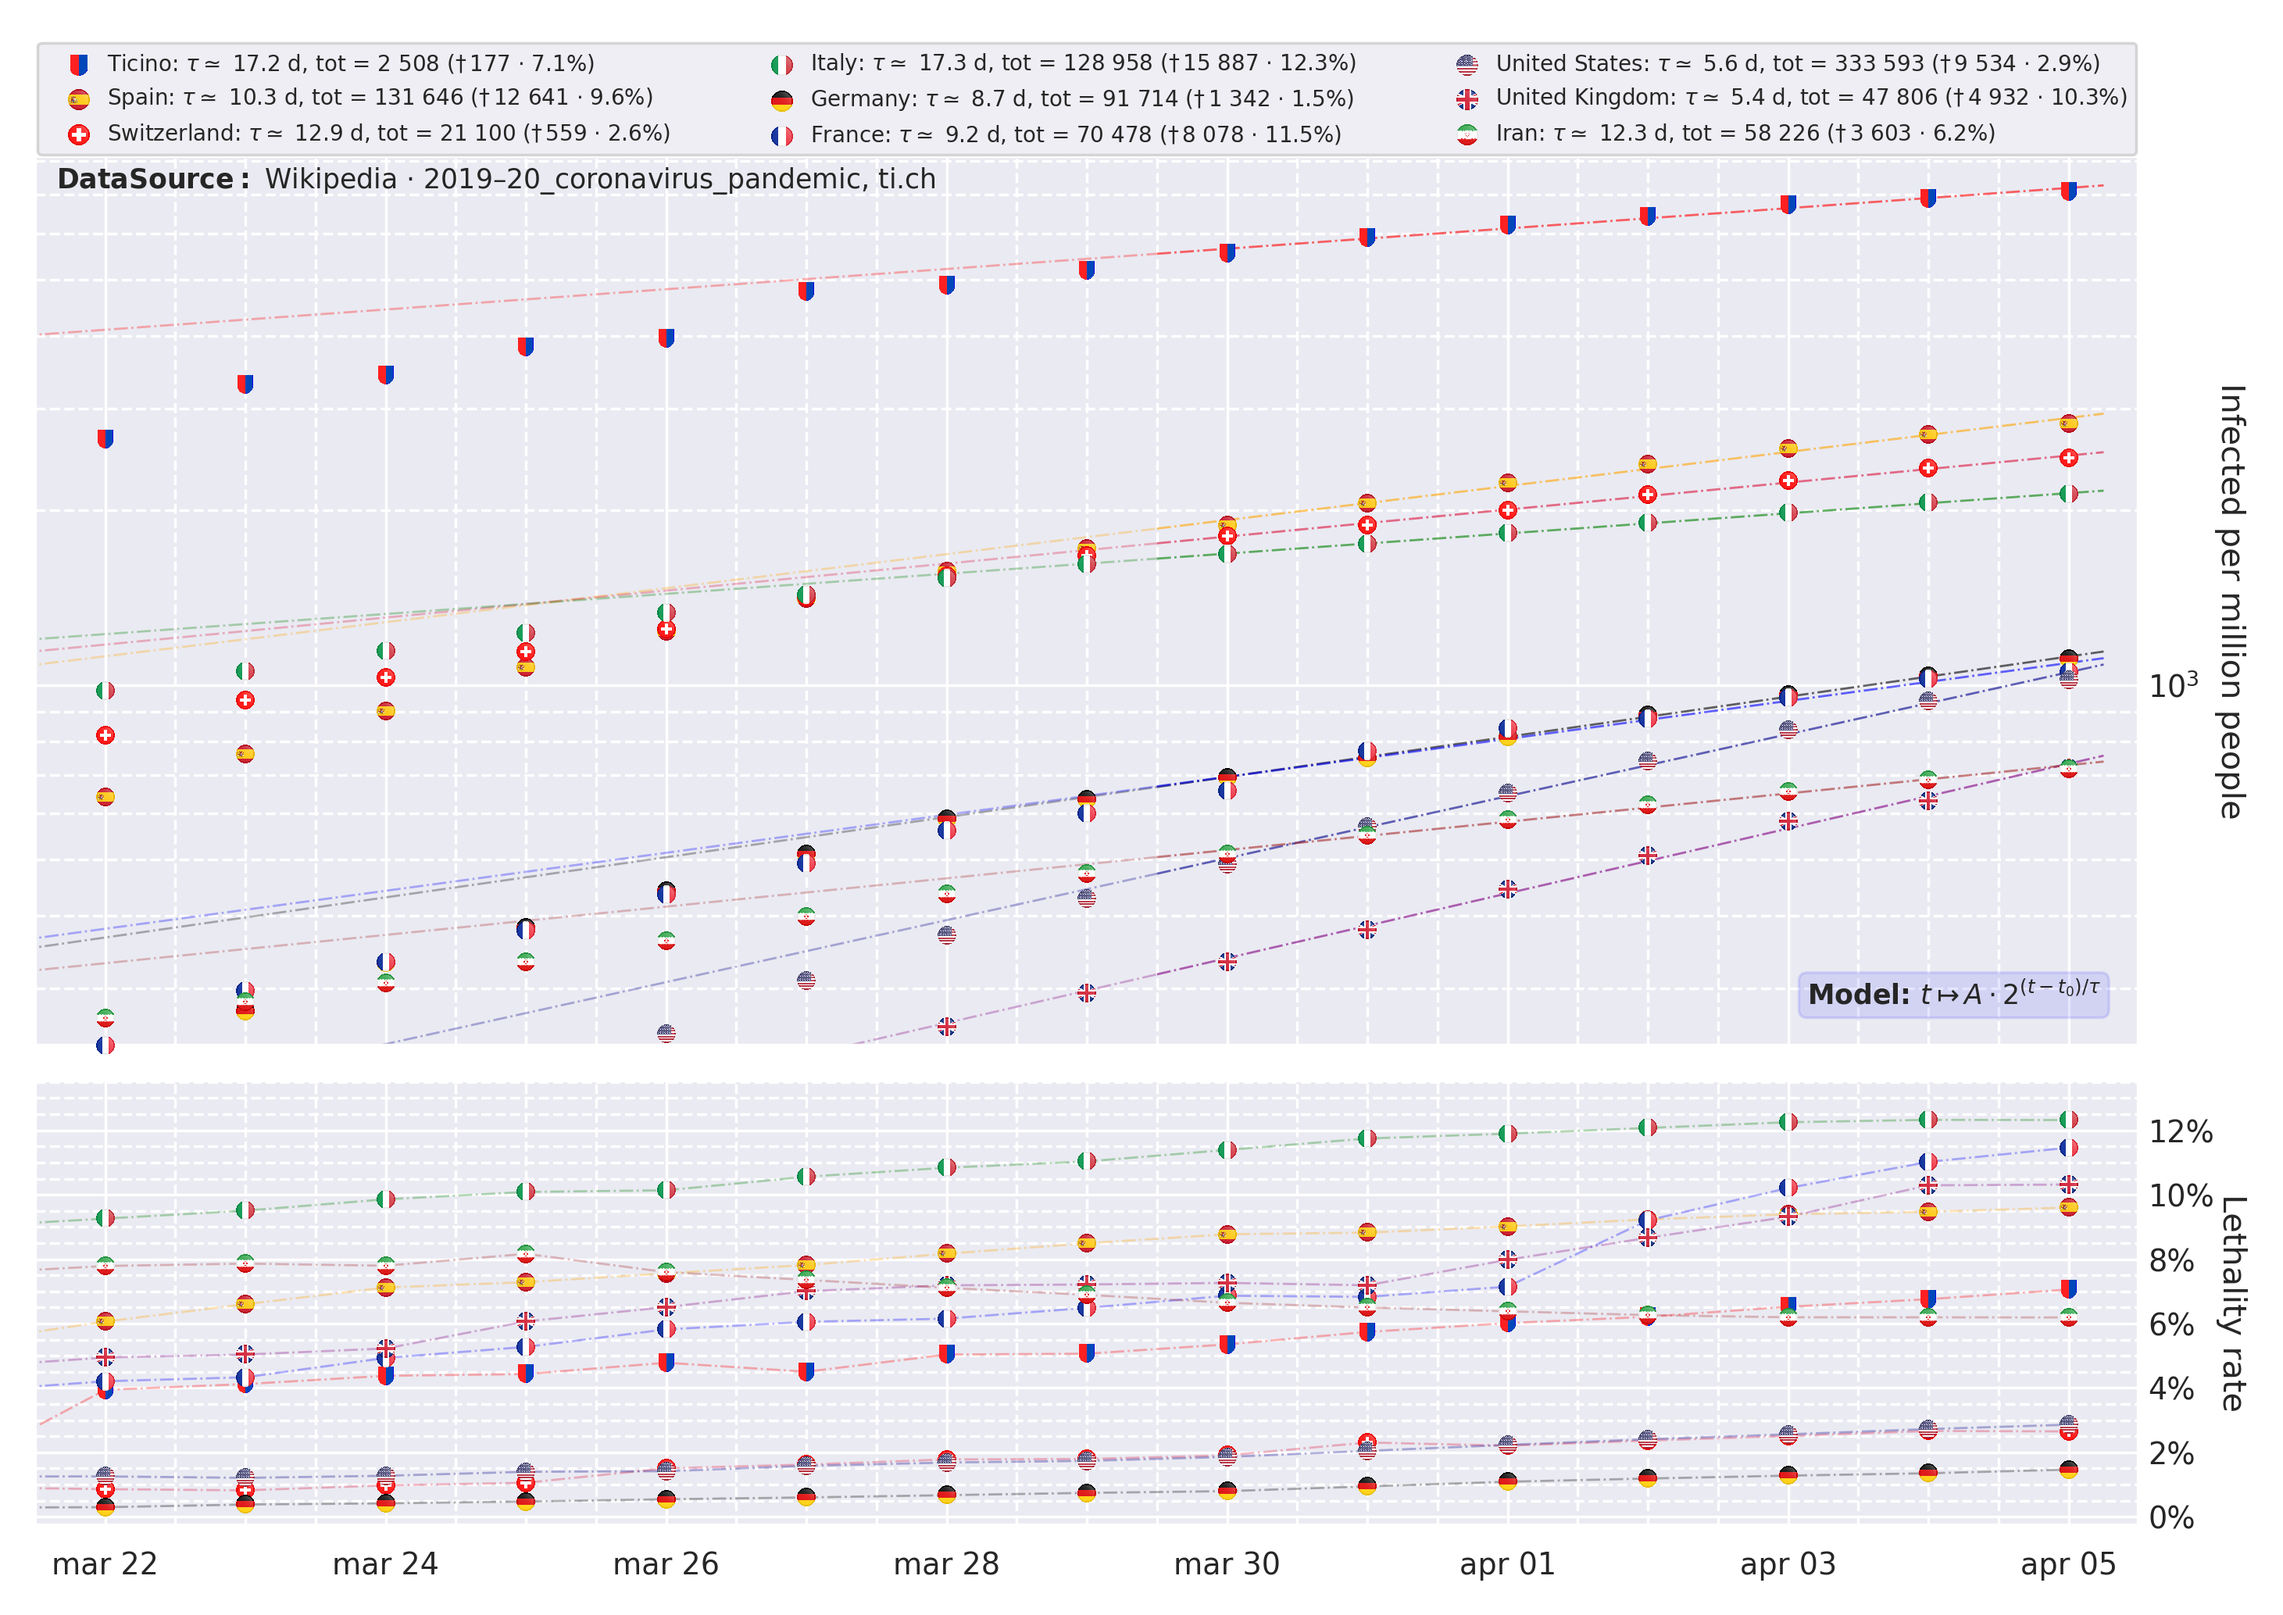
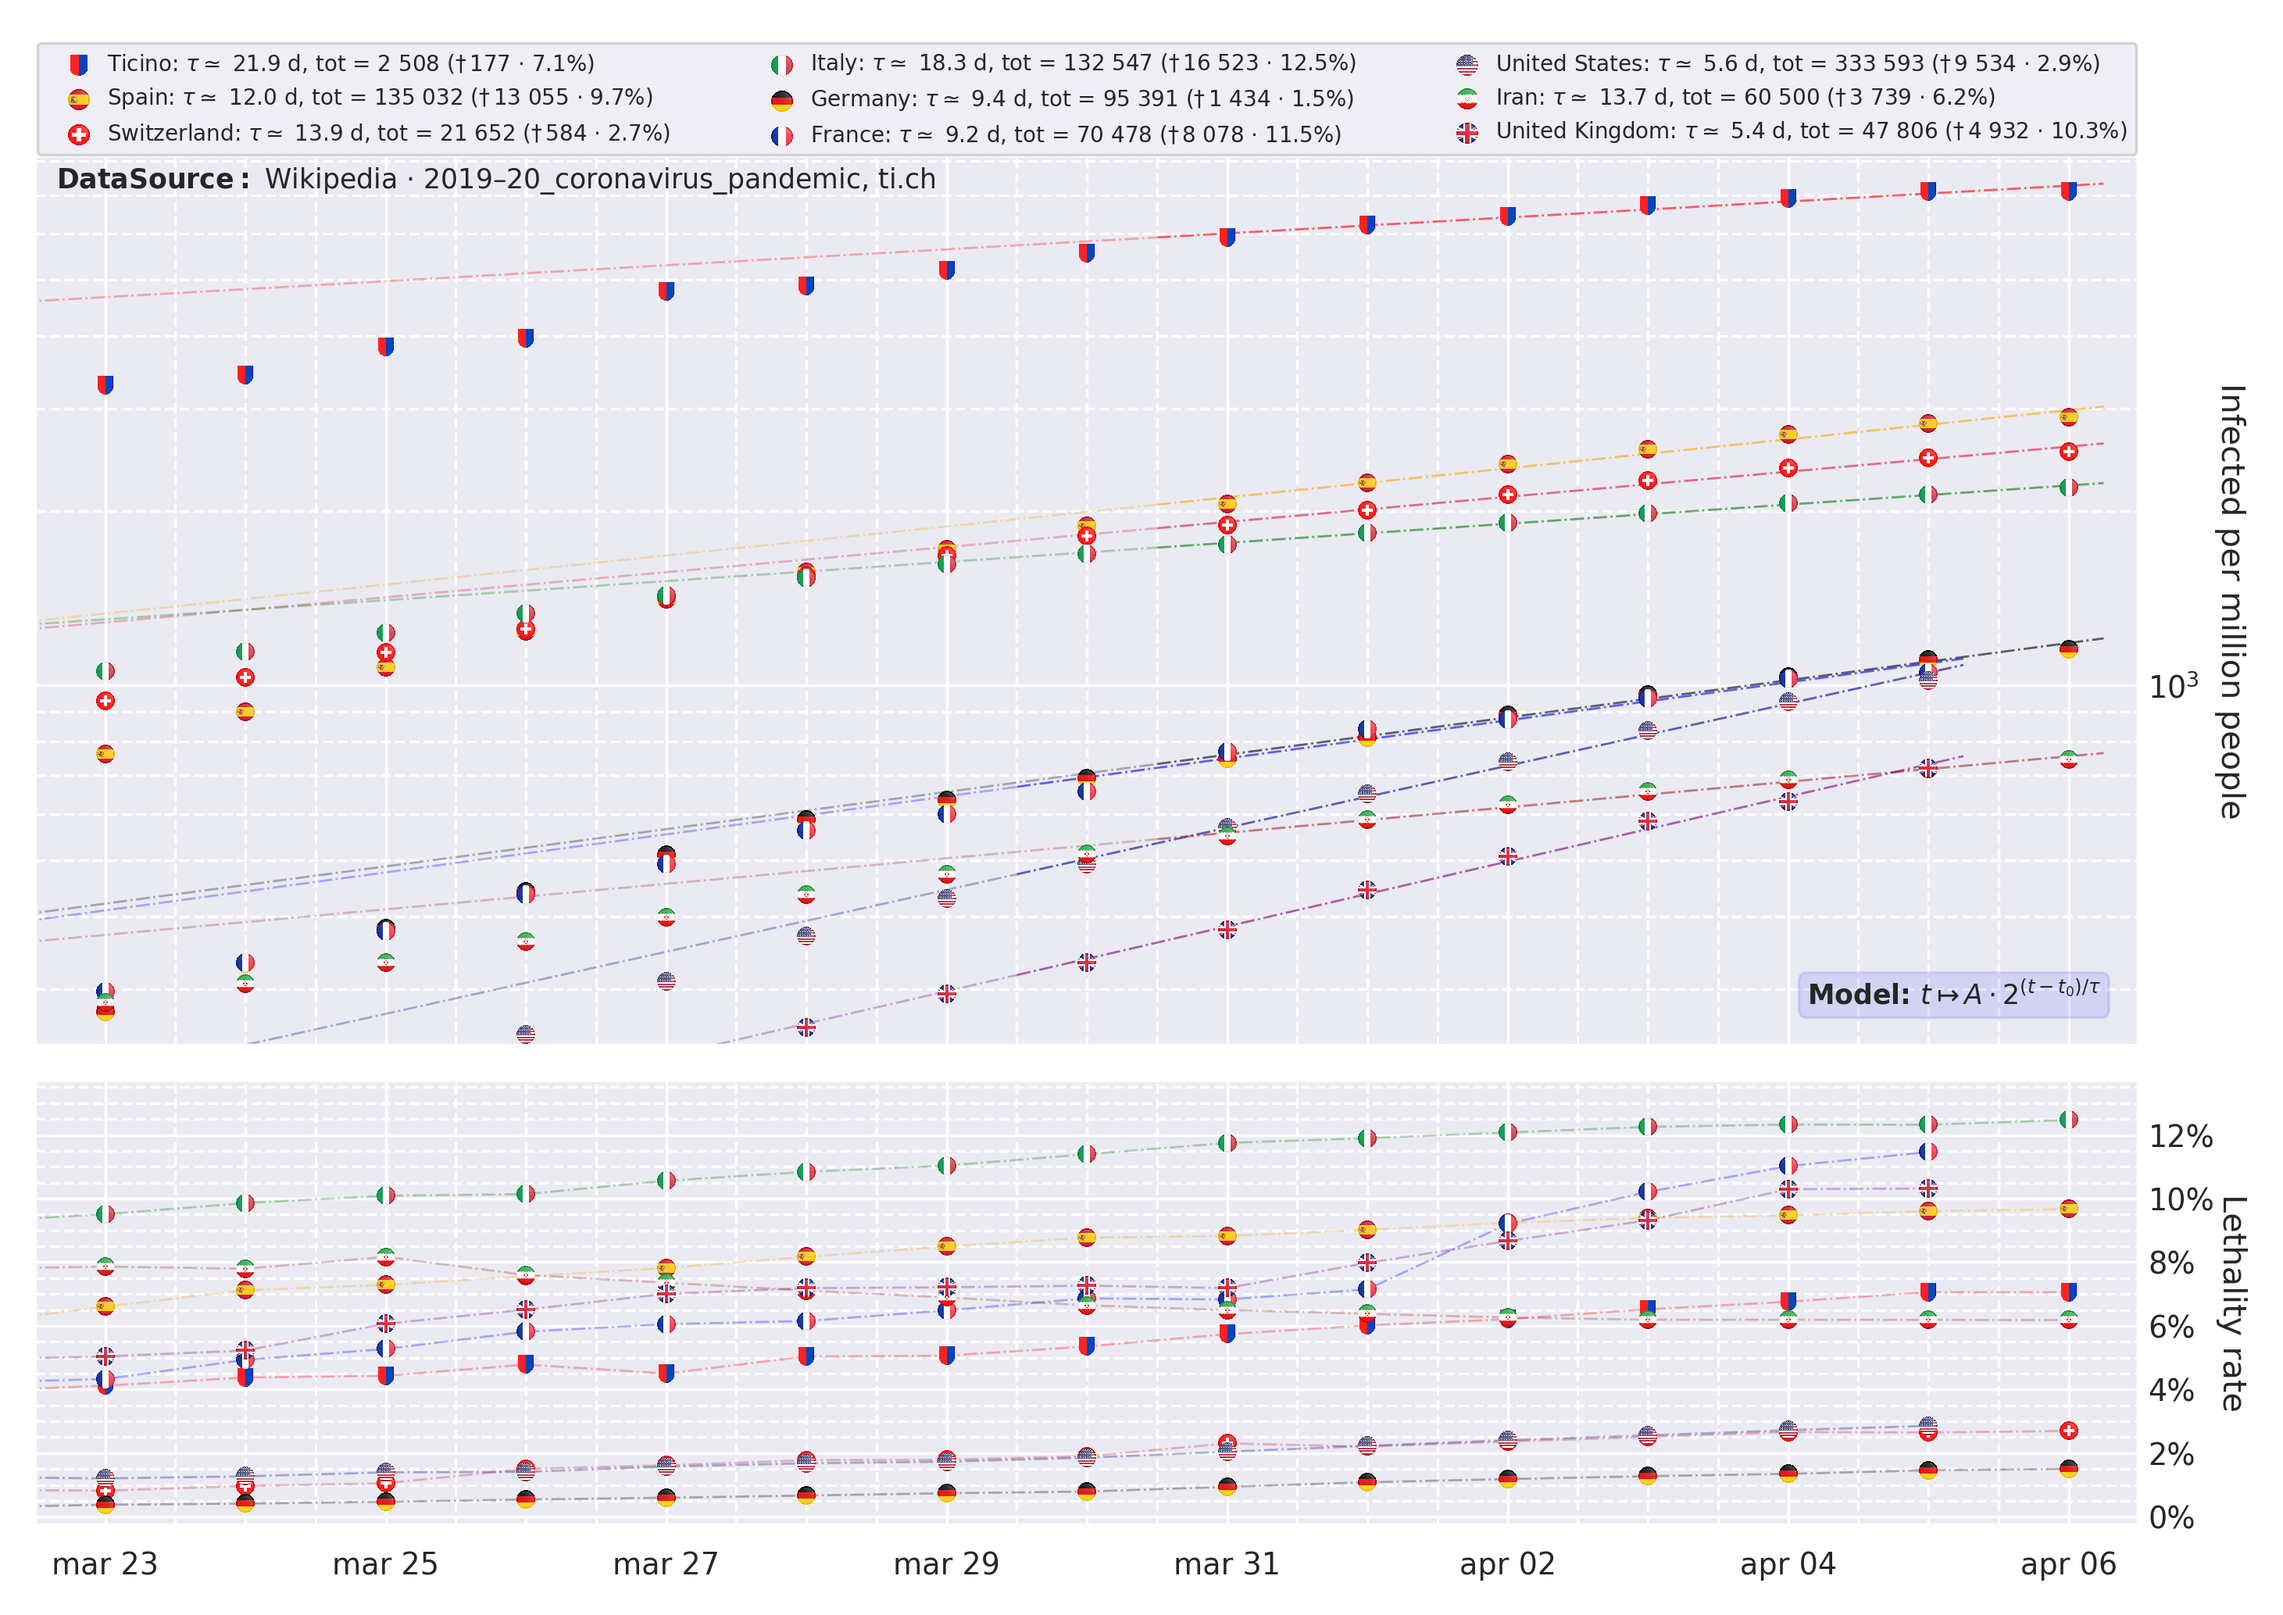
minor commit

diff --git a/Coronavirus/coronavirus.py b/Coronavirus/coronavirus.py
@@ -36,8 +36,8 @@ country_ds["flagname"] = [
     "ti.png", "es.png", "ch.png", "us.png"
 ]
 country_ds["date_format"] = [
-    "%Y-%m-%d", None, "%d-%m-%Y", "%d.%m.%Y", "%d.%m.%Y", "%Y-%m-%d", "%Y-%m-%d",
-    "%Y-%m-%d", "%b %d %Y"
+    "%Y-%m-%d", None, "%d-%m-%Y", "%d.%m.%Y", "%d.%m.%Y", "%Y-%m-%d",
+    "%Y-%m-%d", "%Y-%m-%d", "%b %d %Y"
 ]
 country_ds["color"] = [
     "purple", "brown", "green", "black", "blue", "red", "orange", "crimson",
@@ -104,31 +104,34 @@ for idx, name in enumerate(country_ds.index):
     )
     labels.append(label)
 
-    plot = ax1.plot(df.index, df["density"].values, ".", markersize=8,
-                    color=country_ds["color"].loc[name], label=label)
+    image_path = "flags/" + country_ds["flagname"].loc[name]
+
+    plot = plt.plot([], [])
+    if flags != 2 or not os.path.exists(image_path):
+        plot = ax1.plot(df.index, df["density"].values, ".", markersize=8,
+                        color=country_ds["color"].loc[name], label=label)
     ax1.plot(d1, 2**(model.predict(t1[:, np.newaxis])), "-.", alpha=0.6,
              color=country_ds["color"].loc[name], linewidth=0.8)
     ax1.plot(d2, 2**(model.predict(t2[:, np.newaxis])), "-.", alpha=0.3,
              color=country_ds["color"].loc[name], linewidth=0.8)
+    plots.append(plot[0])
 
-    flagname = country_ds["flagname"].loc[name]
-    if flags == 1:
+    if flags == 1 and os.path.exists(image_path):
         if init_time == 0:
             init_time = t[-15]
         if os.path.isfile("flags/" + flagname):
             flagIdx = np.where(t == init_time)[0][0]
             plot_images([t[flagIdx + idx]],
                         [df["density"].values[flagIdx + idx]],
-                        "flags/" + flagname, xshift=0.2, scale=6, ax=ax1)
-    elif flags == 2:
+                        image_path, xshift=0.2, scale=6, ax=ax1)
+    elif flags == 2 and os.path.exists(image_path):
         custom_handler = ImageHandler()
-        custom_handler.set_image("flags/" + flagname, image_stretch=(-8, 2))
-        plots.append(plot[0])
+        custom_handler.set_image(image_path, image_stretch=(-8, 2))
         handlers[plot[0]] = custom_handler
         plot_images(t[-15:], df["density"].values[-15:],
-                    "flags/" + flagname, scale=2.7, ax=ax1)
+                    image_path, scale=2.7, ax=ax1)
         plot_images(t[-15:], df["lethality"].values[-15:],
-                    "flags/" + flagname, scale=2.7, ax=ax2)
+                    image_path, scale=2.7, ax=ax2)
 
     df["death"].fillna(0, inplace=True)
     ax2.plot(df.index, df["lethality"].values, ".",
@@ -176,13 +179,8 @@ ax2.yaxis.tick_right()
 ax2.tick_params(axis="y", which="both", length=0)
 ax2.yaxis.set_label_position("right")
 
-if flags != 2:
-    ax1.legend(loc="lower left", fontsize=8, ncol=3,
-               bbox_to_anchor=(-0.004, 0.99, 1.008, 0.), mode="expand")
-else:
-    ax1.legend(plots, labels, handler_map=handlers, loc="lower left",
-               fontsize=8, ncol=3, bbox_to_anchor=(-0.004, 0.99, 1.008, 0.),
-               mode="expand")
+ax1.legend(plots, labels, handler_map=handlers, loc="lower left", ncol=3,
+           fontsize=8, bbox_to_anchor=(-0.004, 0.99, 1.008, 0.), mode="expand")
 
 ax1.grid(b=True, which="major", linestyle="-")
 ax1.grid(b=True, which="minor", linestyle="--")

diff --git a/Coronavirus/corona_libs.py b/Coronavirus/corona_libs.py
@@ -13,7 +13,7 @@ def spacing(n):
     return "{:,d}".format(int(n)).replace(",", " ")
 
 
-def plot_images(x, y, flagname, scale=4, xshift=0, ax=None):
+def plot_images(x, y, flagname, scale=4, xshift=0, alpha=None, ax=None):
     ax = ax or plt.gca()
 
     image = plt.imread(flagname)
@@ -23,7 +23,7 @@ def plot_images(x, y, flagname, scale=4, xshift=0, ax=None):
     image = np.swapaxes(np.swapaxes(np.array(img), 0, 1), 1, 2)
 
     for xi, yi in zip(x, y):
-        im = OffsetImage(image, zoom=scale/ax.figure.dpi)
+        im = OffsetImage(image, zoom=scale/ax.figure.dpi, alpha=alpha)
         im.image.axes = ax
         ab = AnnotationBbox(im, (xi + xshift, yi), frameon=False)
         ax.add_artist(ab)
